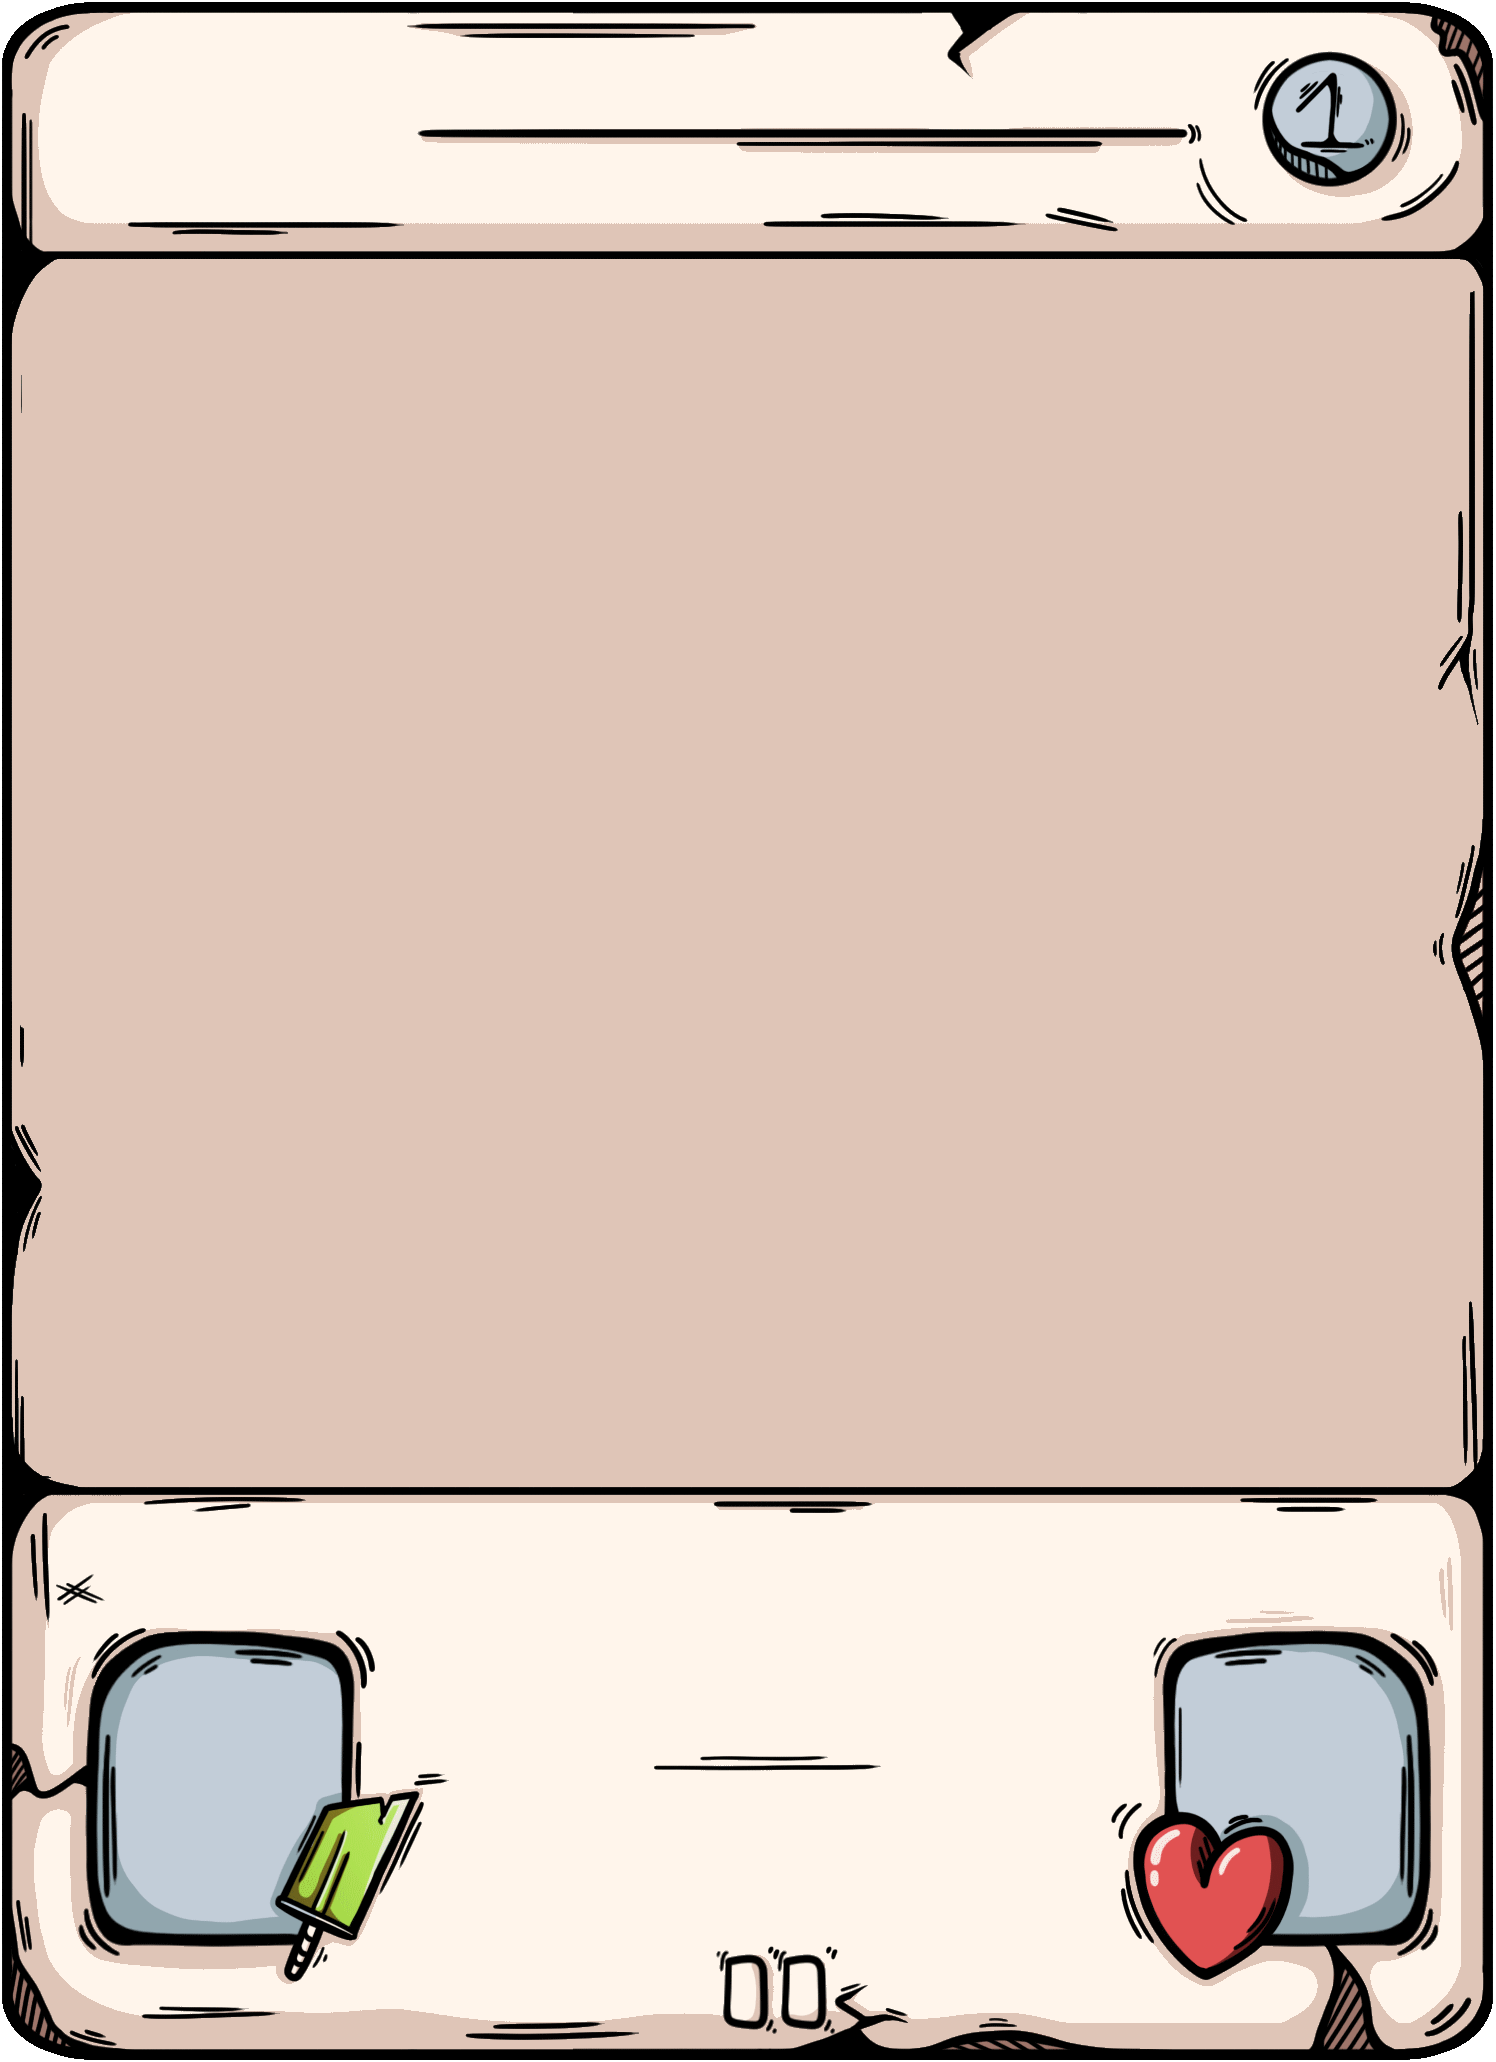
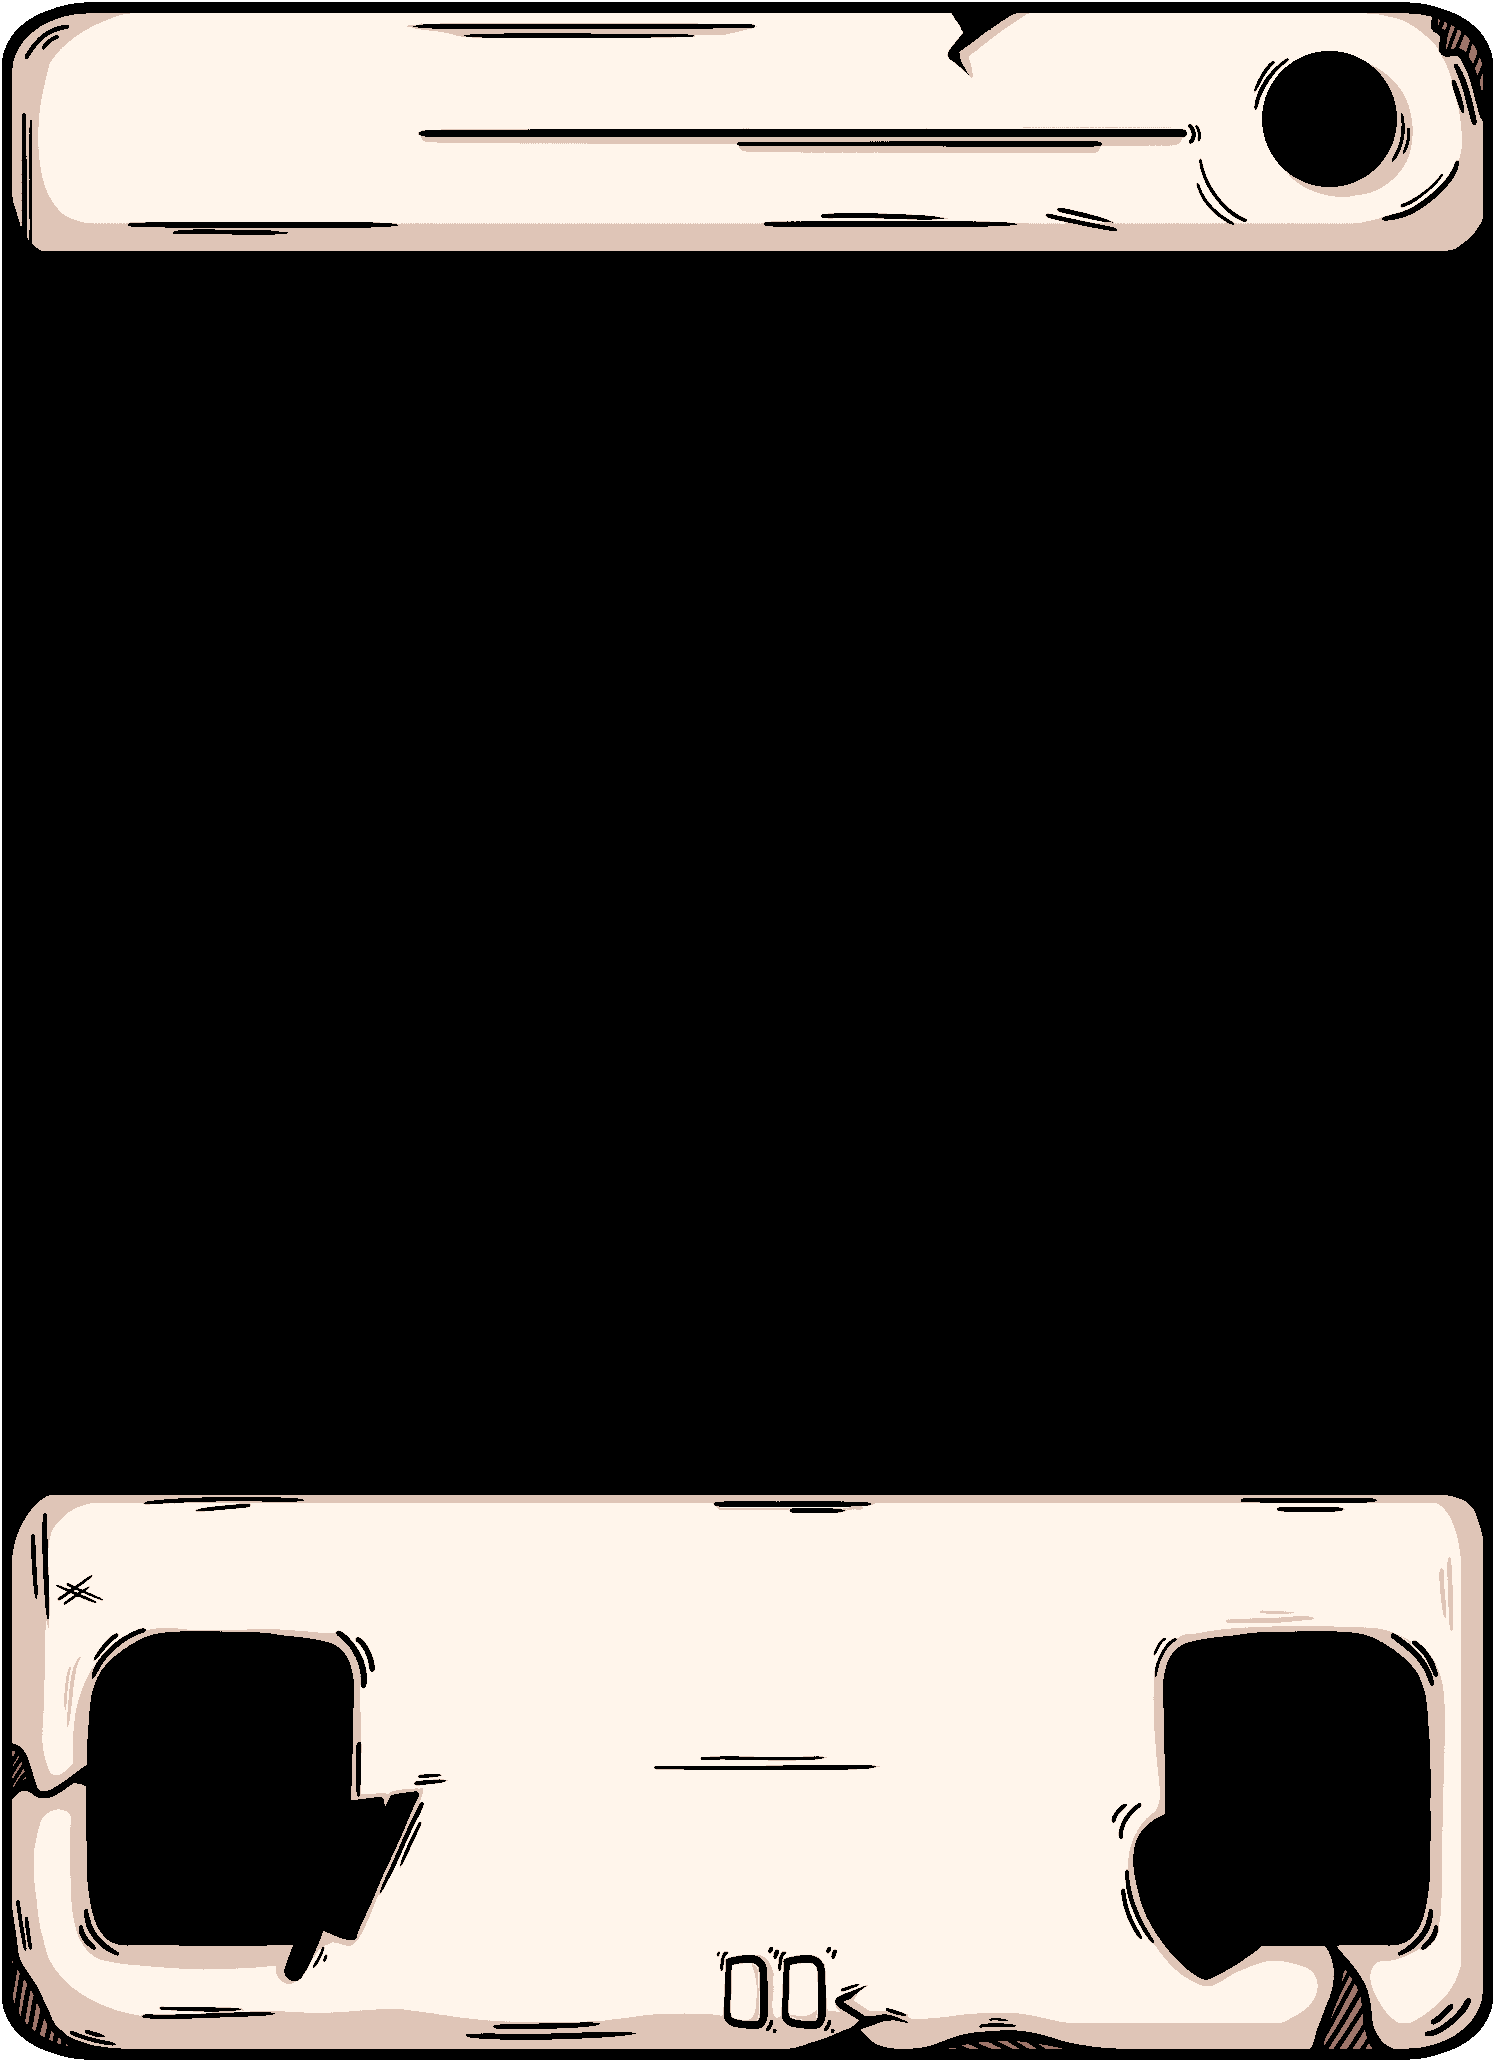
add background color

diff --git a/public/script_create.js b/public/script_create.js
@@ -15,6 +15,7 @@ document.addEventListener("DOMContentLoaded", function() {
 	const avatarImg = document.getElementById('avatar'); // Récupérer l'élément de l'avatar
 	const backButton = document.getElementById('goBack');
 	const messageInput = document.getElementById('message');
+	const bgColorInput = document.getElementById('bgColor');
 
 	generateButton.addEventListener("click", generateCard);
 	shareButton.addEventListener("click", () => {
@@ -27,7 +28,7 @@ document.addEventListener("DOMContentLoaded", function() {
 	pseudoInput.addEventListener("focusout", checkAvatar);
 
 	async function checkAvatar() {
-		const pseudo = pseudoInput.value; // Récupérer la valeur du pseudo
+		const pseudo = pseudoInput.value.trim(); // Récupérer la valeur du pseudo
 
 		// Vérifier si le pseudo respecte le modèle /^[a-zA-Z0-9_]{4,25}$/
 		if (/^[a-zA-Z0-9_]{4,25}$/.test(pseudo)) {
@@ -91,9 +92,9 @@ document.addEventListener("DOMContentLoaded", function() {
 			avatar_url: avatarImg.src,
 			username: 'NikoCardZ 🂡',
 			embeds: [{
-				color: 15158332,
 				title: `${pseudoInput.value} a créé une nouvelle carte !`,
 				description: messageInput.value,
+				color: parseInt(bgColorInput.value.replace('#', ''), 16) || 15158332,
 				author: {
 					name: pseudoInput.value,
 					icon_url: avatarImg.src
@@ -103,11 +104,9 @@ document.addEventListener("DOMContentLoaded", function() {
 				}
 			}]
 		}
-//~ 		const messageContent = document.getElementById("message").value;
 
 		// Créer un objet FormData pour envoyer le contenu du formulaire
 		const formData = new FormData();
-//~ 		formData.append("content", messageContent);
 		formData.append("payload_json", JSON.stringify(jsonData));
 
 		// Récupérer l'image en tant que fichier depuis l'élément img
@@ -268,6 +267,11 @@ document.addEventListener("DOMContentLoaded", function() {
 					let sx, sy, sWidth, sHeight; // Source clipping parameters
 					let dx, dy, dWidth, dHeight; // variables pour dimensionner et positionner l'image
 
+					// Couleur de fond pour l'image
+					ctx.fillStyle = bgColorInput.value.toString(16);
+					console.log( bgColorInput.value)
+					ctx.fillRect(targetX, targetY, targetWidth, targetHeight);
+
 					switch (fitOption) {
 						case 'stretch':
 							// Étirer l'image pour remplir le cadre
@@ -318,7 +322,7 @@ document.addEventListener("DOMContentLoaded", function() {
 				function step3() {
 					// Appliquer l'effet de réduction des couleurs directement sur cette zone du canvas
 					if(effetDessin) {
-						reduceColors(ctx, targetX, targetY, targetWidth, targetHeight, 100); // Utiliser par exemple 32 couleurs
+						reduceColors(ctx, targetX, targetY, targetWidth, targetHeight, 60); // Utiliser par exemple 32 couleurs
 					} else {
 						prog.style.width = "70%";
 						requestAnimationFrame(step4);

diff --git a/create.html b/create.html
@@ -57,6 +57,8 @@ Mon joie, ma mie !" />
 			</form>
 			<h3>Effet</h3>
 			<label><input id="effetDessin" type="checkbox" /><b>Effet dessin</b>: réduction du nombre de couleurs</label>
+			<h3>Couleur de fond</h3>
+			<input id="bgColor" type="color" value="#E74C3C" />
 		</div>
 		<div id="cardPreview" class="form share">
 			<img src="public/cards/back_.png" />

diff --git a/public/style_create.css b/public/style_create.css
@@ -122,6 +122,9 @@ header h2 {
 	height: 80px;
 	margin-bottom: 10px;
 }
+#sendButton {
+	margin-bottom: 10px;
+}
 input, textarea {
 	border: solid 1px #808080;
 	background: #fff5eb;
